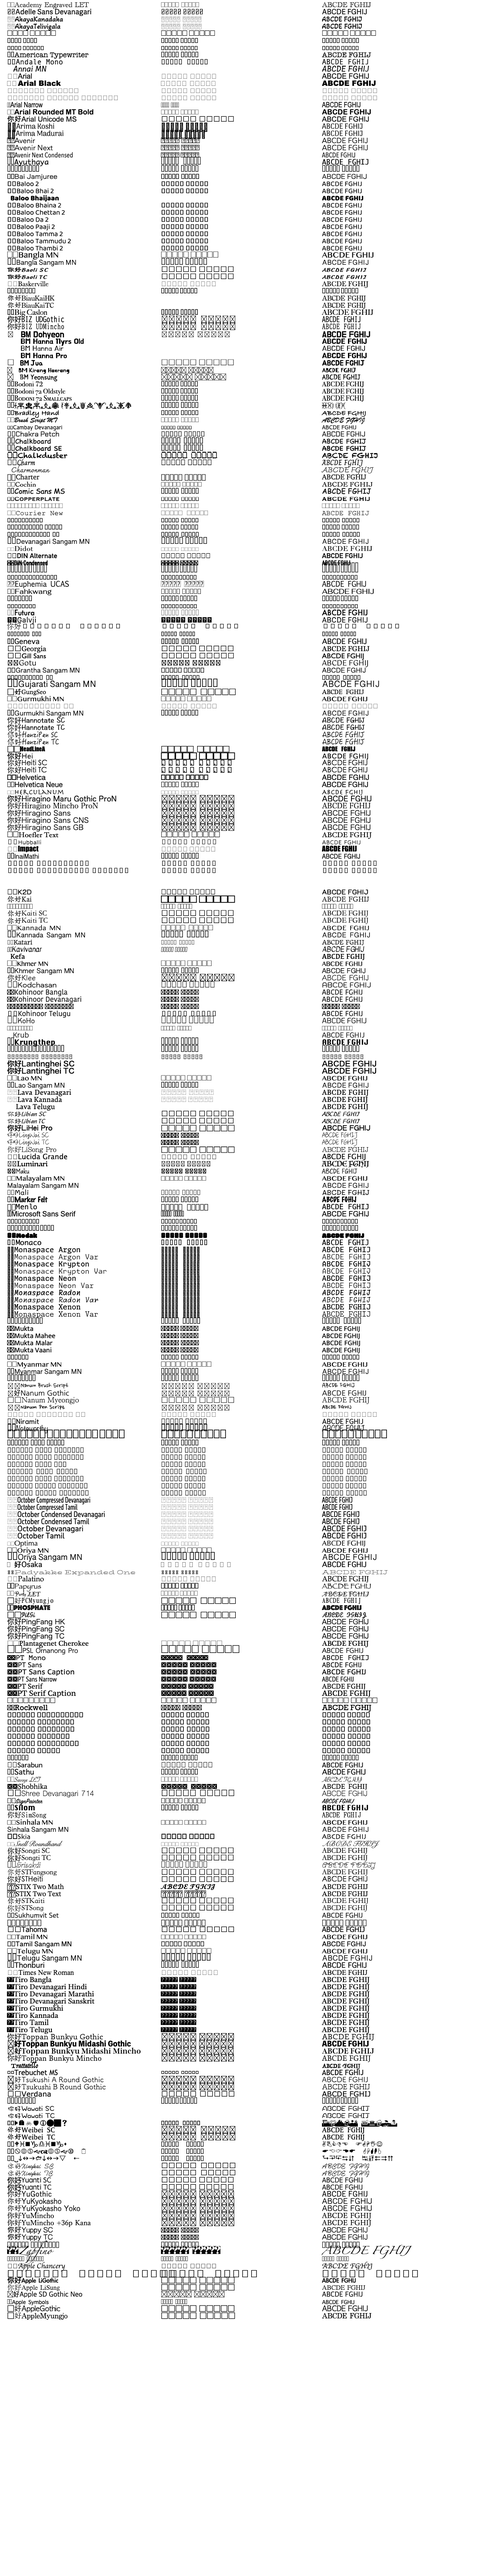
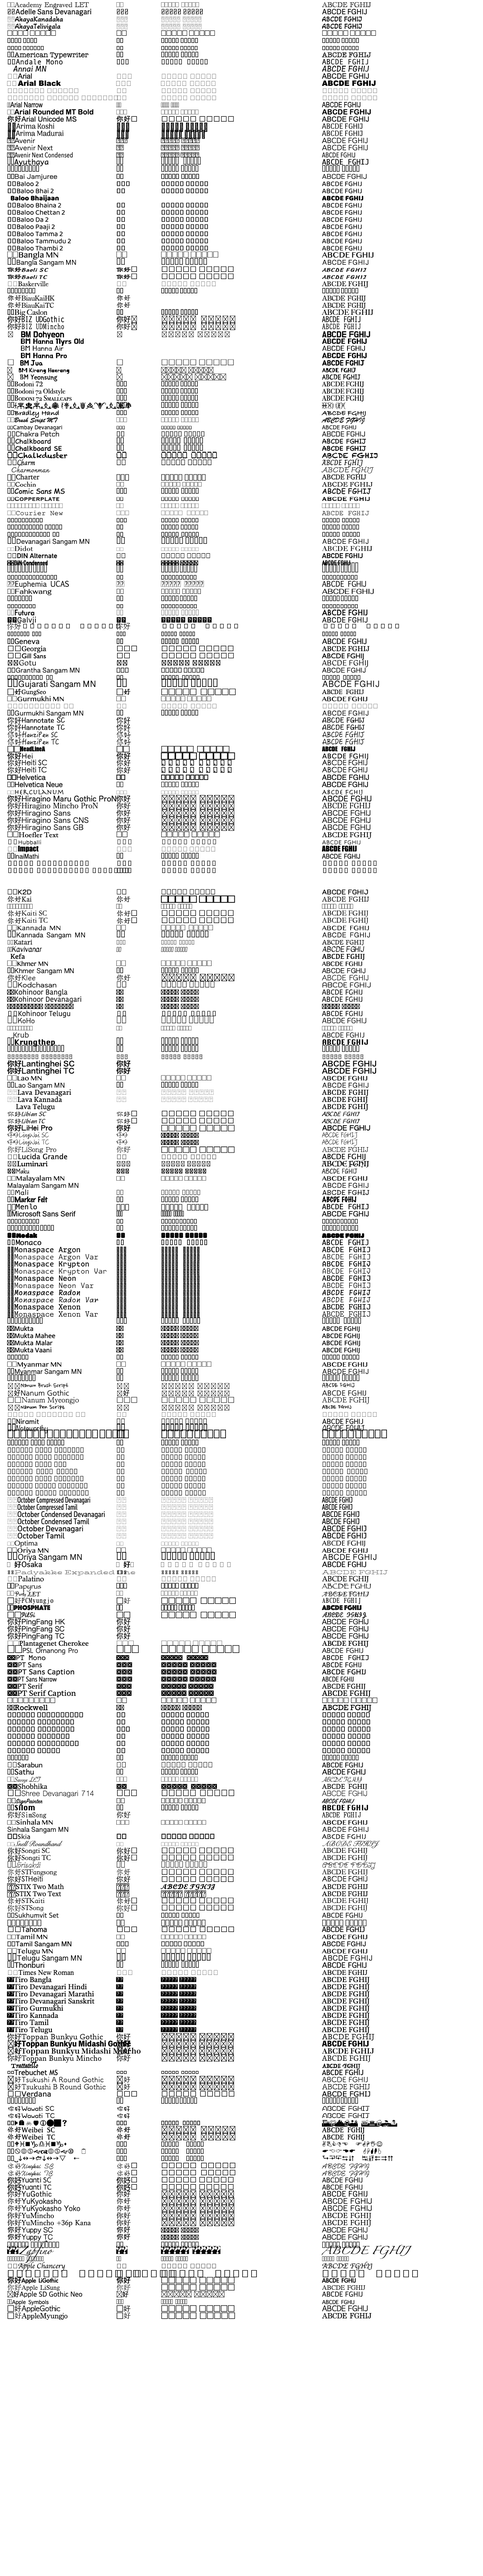
ICONV

Changed region(s): [[0.2444, 0.0, 0.275, 0.9062]]

diff --git a/src/skia/skparagraph/hello_check_font.cpp b/src/skia/skparagraph/hello_check_font.cpp
@@ -21,6 +21,33 @@
 #include <src/core/SkOSFile.h>
 #include <src/core/SkStringUtils.h>
 
+std::string drawGlyph(SkCanvas *canvas) {
+    // Clear background
+    canvas->clear(SK_ColorWHITE);
+    SkFont font;
+    font.setSubpixel(true);
+    font.setSize(16);
+    SkPaint paint;
+    paint.setColor(SK_ColorBLACK);
+    paint.setAntiAlias(true);
+
+    sk_sp<SkFontMgr> pMgr = (SkFontMgr::RefDefault());
+    int FamilyCount = pMgr->countFamilies();
+    for (int j = 0; j < FamilyCount; j++) {
+        SkString familyName;
+        pMgr->getFamilyName(j, &familyName);
+        sk_sp<SkTypeface> typeface =
+                SkTypeface::MakeFromName(familyName.c_str(), SkFontStyle::Normal());
+        if (typeface == nullptr) {
+            continue;
+        }
+        font.setTypeface(typeface);
+        uint16_t glyphID = 65000;
+        canvas->drawSimpleText(&glyphID, 2,SkTextEncoding::kGlyphID, 100, 16 + j * 16, font, paint);
+    }
+    return "hello_check_font_glyph.png";
+}
+
 std::string draw(SkCanvas *canvas) {
   // Clear background
   canvas->clear(SK_ColorWHITE);
@@ -53,6 +80,12 @@ std::string draw(SkCanvas *canvas) {
     test_support_font_message.append(familyName.c_str());
     canvas->drawString(test_support_font_message.c_str(), SkIntToScalar(16),
                        SkIntToScalar(16) * SkIntToScalar(j) + 16, font, paint);
+
+    sk_sp<SkTextBlob> blob = SkTextBlob::MakeFromText(
+            str, std::size(str),
+        font, SkTextEncoding::kUTF8);
+    canvas->drawTextBlob(blob, SkIntToScalar(260),
+                         SkIntToScalar(16) * SkIntToScalar(j) + 16, paint);
 
     const uint16_t test1[] = {0xD835, 0xDCD0, 0xD835, 0xDCD1, 0xD835, 0xDCD2,
                               0xD835, 0xDCD3, 0xD835, 0xDCD4, 0x0020, 0xD835,
@@ -97,7 +130,7 @@ int main() {
       imageInfo, imageInfo.minRowBytes()); // 为位图设备绑定信息和分配内存
 
   SkCanvas canvas(canvasBitmap);
-  std::string fileName = draw(&canvas);
+  std::string fileName = drawGlyph(&canvas);
 
   // 将绘制结果保存到图片文件中
   std::string current_directory = File::get_current_directory();
